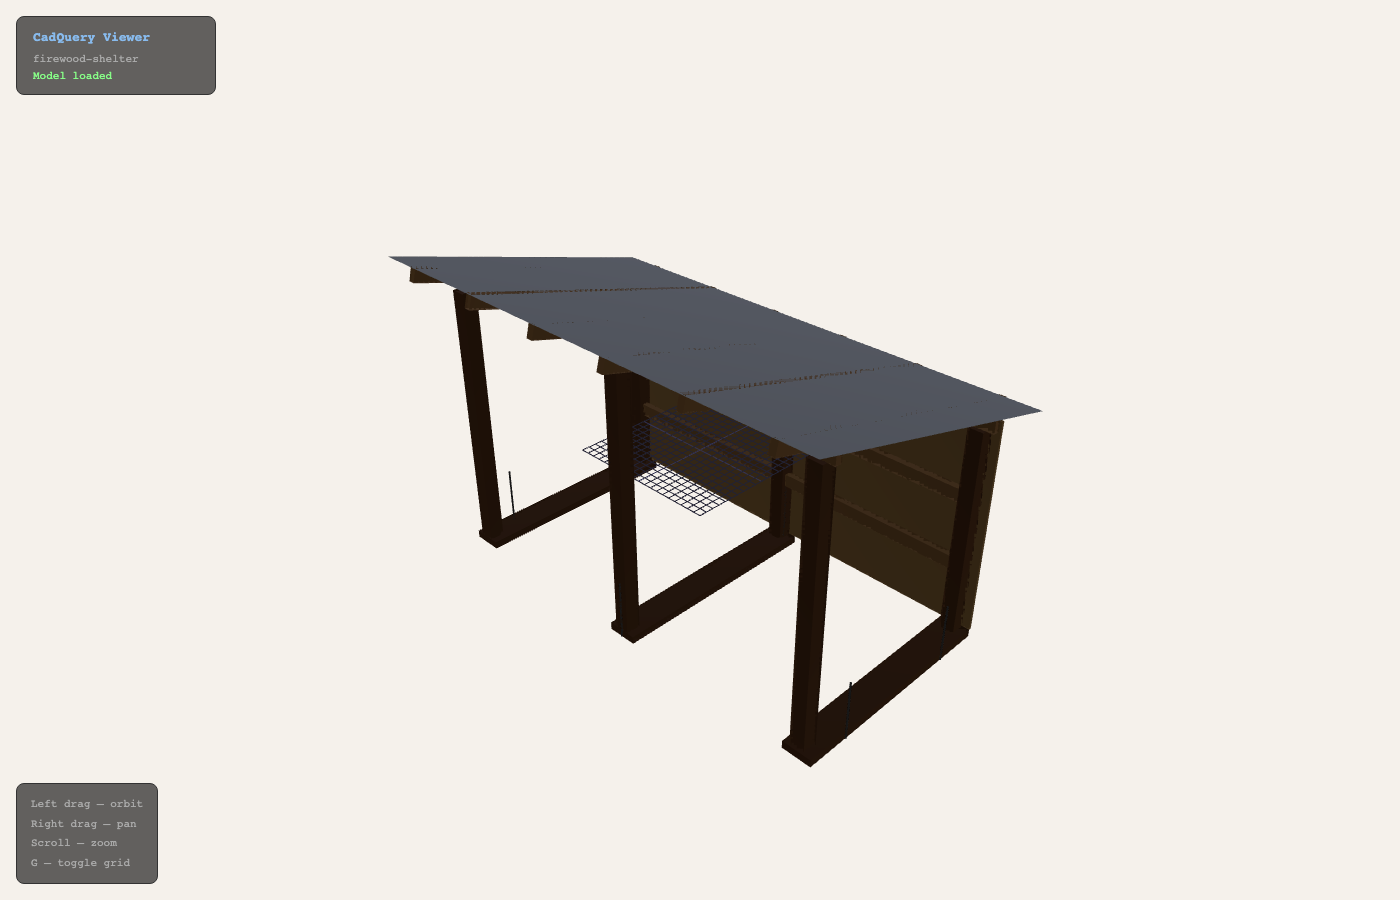
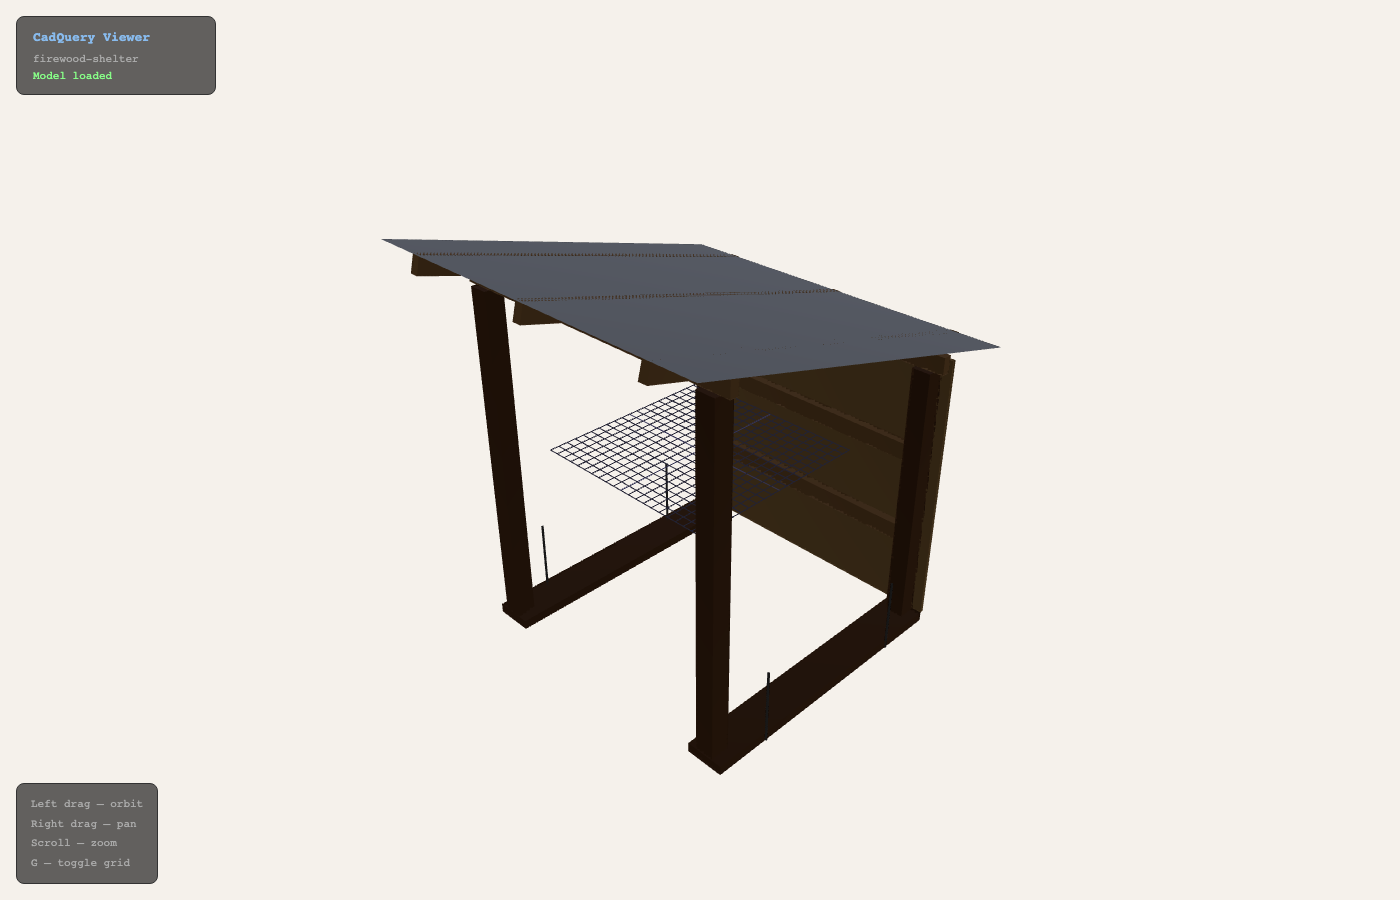
Modular shelter (number of bays)

Changed region(s): [[0.2764, 0.2489, 0.7371, 0.8711]]

diff --git a/projects/firewood-shelter/models/shelter.py b/projects/firewood-shelter/models/shelter.py
@@ -22,8 +22,8 @@ import math
 # ── Firewood sizing ───────────────────────────────────────────────────────────
 # Target storage and standard stack geometry drive the shelter width and depth.
 
-FIREWOOD_VOL_M3 = 4.0   # target storage volume (m³)
-STACK_H_M       = 1.2   # standard stack height (m)
+FIREWOOD_VOL_M3 = 3.0   # target storage volume (m³)
+STACK_H_M       = 1.6   # standard stack height (m)
 STACK_D_M       = 0.5   # standard stack depth (m)
 STACK_ROWS      = 3     # rows of wood — one along the front, one along the back
 
@@ -94,6 +94,7 @@ SLOPE_RUN  = TOTAL_D
 SLOPE_DEG  = math.degrees(math.atan2(SLOPE_RISE, SLOPE_RUN))  # ≈ 9.46°
 SLOPE_RAD  = math.radians(SLOPE_DEG)
 
+print(f"No of bays    : {N_SL - 1} (based on target row width of {_row_width_m:.2f} m)")
 print(f"Roof slope    : {SLOPE_DEG:.1f}°  ({SLOPE_RISE}/{SLOPE_RUN} mm)")
 print(f"Frame         : {TOTAL_W} mm wide  ×  {TOTAL_D} mm deep")
 print(f"Firewood rows : {STACK_ROWS} × {TOTAL_W} mm = {STACK_ROWS * TOTAL_W / 1000:.1f} m linear  "
@@ -105,11 +106,16 @@ POST_XS = [i * BAY_W + SL_W / 2 for i in range(N_SL)]
 # Full width span of top members (sleeper-face to sleeper-face)
 SPAN_W = TOTAL_W + SL_W
 
-# Number of rafters: outermost over edge sleepers, ≤600 mm centres
-N_RAF  = math.ceil(TOTAL_W / 600) + 1
-
-# Rafter X positions (evenly spaced, outermost over edge sleepers)
-RAF_XS = [POST_XS[0] + i * (TOTAL_W / (N_RAF - 1)) for i in range(N_RAF)]
+# Rafter positions: one rafter at each post, intermediates added where bay > 750 mm.
+# This keeps rafters aligned with posts for modular bay-by-bay construction.
+RAF_MAX_SPACING = 750   # mm
+RAF_XS = []
+for _i in range(N_SL - 1):
+    _n_spaces = math.ceil(BAY_W / RAF_MAX_SPACING)
+    for _j in range(_n_spaces):
+        RAF_XS.append(POST_XS[_i] + _j * BAY_W / _n_spaces)
+RAF_XS.append(POST_XS[-1])
+N_RAF = len(RAF_XS)
 
 # Rafter geometry: sloped length and mid-height
 RAF_LEN_HORIZ = TOTAL_D + OV_F + OV_B         # 2 850 horizontal span
